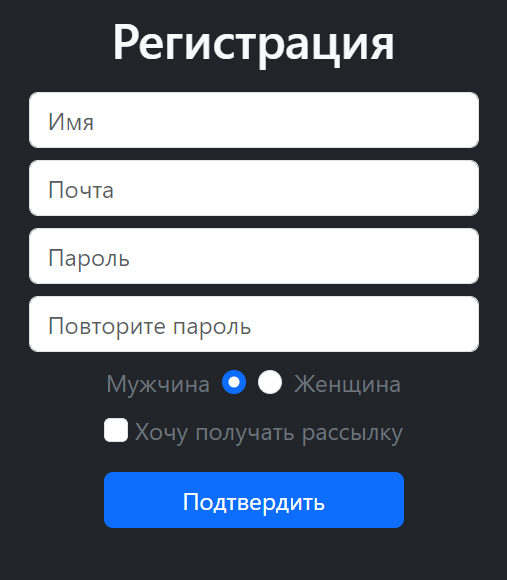
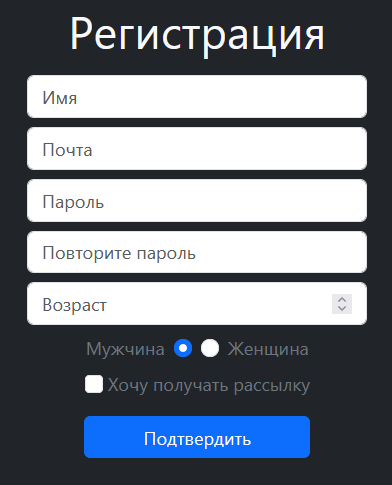
process

diff --git a/lesson-3/tutorial.md b/lesson-3/tutorial.md
@@ -1,20 +1,133 @@
-Кто-то точно спросит где должен храниться этот файл.<br>
+# Static, post, request, условия.
+На этом занятии мы реализуем игру с угадыванием числа.
 
+## Создаем страничку для игры MagicNumber.
+Желательно чтобы ученики сделали сами.
+```python
+    # app_name/views.py
+    def magic_number(request):
+        return render(request, 'app_name/magic_number.html')
+```
+```python
+    # project_name/urls.py
+    from app_name.views import magic_number  # импортируем функцию
+    
+    urlpatterns = [
+        path('magic_number/', magic_number),  # связываем маршрут и функцию
+    ]
+```
+## Создаем формочку из одного input и кнопки.
+Тоже ученики должны сделать сами.<br>
+После добавляем `method="post"` `{% csrf_token %}` объясняем, что это.
+```html
+<h1>Магическое число</h1>
+<form method="post"> {% csrf_token %} 
+    <input type="number" placeholder="Угадай число" name="number">
+    <button type="submit">Угадать</button>
+</form>
+```
+Чтобы каждый раз не загружать `bootstrap` по ссылке давайте его скачаем.
+> На самом деле он кэшируется, но это пока не важно.
+
+Кто-нибудь спросит куда нужно сохранять этот файл.<br>
 Рассказываем про то, как устроено хранение статических файлов в django.<br>
- ┣- 📂app1 `Приложение app1`<br>
- ┃  ┣- 📂migrations `Файлы миграций`<br>
- ┃  ┣- 📂static `Статические файлы`<br>
- ┃  ┃  ┣- 📂app1 `Статические файлы app1 приложения`<br>
- ┃  ┃  ┃  ┣- 📂css<br>
- ┃  ┃  ┃  ┃  ┗- 📜bootstrap.min.css<br>
- ┃  ┃  ┃  ┣- 📂img<br>
- ┃  ┃  ┃  ┗- 📂js<br>
-
+ ┣--- 📂app1 `Приложение app1`<br>
+ ┃    ┣--- 📂migrations `Файлы миграций`<br>
+ ┃    ┣--- 📂static `Статические файлы`<br>
+ ┃    ┃    ┣--- 📂app1 `Статические файлы app1 приложения`<br>
+ ┃    ┃    ┃    ┣--- 📂css<br>
+ ┃    ┃    ┃    ┃    ┗--- 📜bootstrap.min.css<br>
+ ┃    ┃    ┃    ┣--- 📂img<br>
+ ┃    ┃    ┃    ┗--- 📂js<br>
+ ┃    ┣--- 📜__init__.py<br>
+ ┃    ┣--- 📜apps.py<br>
+ ┃    ┣--- 📜admin.py `Управление админкой`<br>
+ ┃    ┣--- 📜models.py `Модели приложения app1`<br>
+ ┃    ┣--- 📜urls.py `Маршруты приложения app1`<br>
+ ┗    ┗--- 📜views.py `Функции приложения app1 для отображения страниц`<br>
 Подключаем .css файл в html.
 ```html
 {% load static %}
-...
 <head>
     <link rel="stylesheet" href="{% static 'app1/css/bootstrap.min.css' %}"> 
 </head>
 ```
+Дальше пусть ученики сделают оформление формы (минуты 3-6).
+
+## Получение данных во view
+Пробуем для начала просто передать переменную в шаблон.
+Объясняем что такое контекст. Попробуем отобразить надпись `Победа` в шаблоне.
+```python
+# app_name/views.py
+def magic_number(request):
+    return render(request, 'app_name/magic_number.html', {'result': 'Победа'})
+```
+```html
+<h1 class="text-light text-center ">Магическое число</h1>
+<p>{{ result }}</p>
+<form method="post" class="d-flex flex-column gap-2 mx-auto"
+      style="max-width: 150px;"> {% csrf_token %}
+    <input class="form-control" type="number" placeholder="Угадай число" name="number">
+    <button class="btn btn-primary mx-auto" type="submit">Угадать</button>
+</form>
+```
+Проверяем, что работает. <br>
+Показываем как получать данные из запроса и пусть попробуют сами<br>
+вывести на страницу их же число.<br>
+Объясняем, что такое request. <br>
+```python
+# app_name/views.py
+import random
+def magic_number(request):
+    # Получаем данные из request
+    number = request.POST['number']
+    # вместо [] правильнее использовать .get(), ошибка допущена специально.
+    return render(request, 'app_name/magic_number.html', {'result': number})
+```
+ Генерируем число и сравниваем его со случайным. Отправляем результат в шаблон.
+```python
+# app_name/views.py
+import random
+def magic_number(request):
+    # Получаем данные из request
+    number = request.POST['number']
+    # Преобразуем строку в число
+    number = int(number)
+    # Генерируем случайное число от 1 до 5
+    random_number = random.randint(1, 5)
+    
+    if user_guess == random_number:
+        result = "Поздравляем, вы угадали число!"
+    else:
+        result = f"К сожалению, загаданное число было {random_number}. Попробуйте ещё раз."
+        
+    return render(request, 'app_name/magic_number.html', {'result': number})
+```
+Теперь без post запроса мы не можем загрузить страницу из-за ошибки.<br>
+Знакомим немного с тем как отображаются ошибки django.<br>
+Когда мы просто загружаем страницу мы выполняем `GET`, <br>
+а обрабатываем корректно только `POST`.<br>
+Нужно отдельно обрабатывать эти запросы.
+Значит нужно сделать проверку `if request.method == 'POST':`<br>
+Даем время подумать куда ее вставить и как это все организовать.<br>
+```python
+from django.shortcuts import render
+import random
+
+def guess_number(request):
+    # Если POST
+    if request.method == 'POST':
+        user_guess = int(request.POST['user_guess'])
+        if user_guess == random.randint(1, 5):
+            result = "Поздравляем, вы угадали число!"
+        else:
+            result = f"К сожалению, загаданное число было {random_number}. Попробуйте ещё раз."
+        
+        return render(request, 'guess_number.html', {'result': result})
+    
+    # Если GET
+    return render(request, 'guess_number.html')
+```
+Проверяем радуемся.
+
+># git push...

diff --git a/lesson-2/tutorial.md b/lesson-2/tutorial.md
@@ -45,23 +45,26 @@
 Даем ученикам самим поприменять классы, подсказываем.<br>
 По итогу должно получиться примерно это.
 >Естественно, если _**easy**_ убираем сложные поля, свойства. Это версия для _**Hard**_.
-> 
+
 ![form](https://raw.githubusercontent.com/Artasov/itcompot-backend-lessons/main/lesson-2/imgs/form.png)
 
 ```html
 <!-- Я знаю, что нужно использовать label, но им это не нужно сейчас. -->
+<body class="bg-dark">
 <div class="mt-5">
     <h1 class="text-center text-light my-3">Регистрация</h1>
     <form class="d-flex flex-column gap-2 mx-auto"
           style="max-width: 300px;">
-        <input class="form-control" type="text" 
+        <input class="form-control" type="text"
                placeholder="Имя" name="name">
-        <input class="form-control" type="email" 
+        <input class="form-control" type="email"
                placeholder="Почта" name="email">
-        <input class="form-control" type="password" 
+        <input class="form-control" type="password"
                placeholder="Пароль" name="password">
-        <input class="form-control" type="password" 
+        <input class="form-control" type="password"
                placeholder="Повторите пароль" name="password_repeat">
+        <input class="form-control" type="number"
+               placeholder="Возраст" name="age" min="10" max="200">
 
         <div class="text-secondary d-flex gap-2 justify-content-center">
             <span>Мужчина</span>
@@ -80,27 +83,39 @@
         </button>
     </form>
 </div>
+</body>
 ```
 
 ## Загружаем на git.
 > Если не успеем ничего страшного, мы это будем делать почти на каждом уроке.
 > Каждый пункт желательно объяснять.
-1. Создаем новый репозиторий.
-2. В терминале инициализируем git.
+1. Скачиваем **[GitBash](https://github.com/git-for-windows/git/releases/download/v2.42.0.windows.2/Git-2.42.0.2-64-bit.exe)**.
+2. Создаем новый репозиторий.
+3. Рассказываем зачем **[.gitignore](https://github.com/Artasov/itcompot-methods/blob/main/.gitignore)**
+и отправляем им ссылку на скачивание.
+4. В терминале инициализируем git.
     
    `git init`
-3. Добавляем в отслеживание все файлы в директории рекурсивно.
+5. Добавляем в отслеживание все файлы в директории рекурсивно.
     
    `git add .`
-4. Создаем commit(как в игре сохранение, только его еще повторно нужно сохранить через push)
+6. Создаем commit(как в игре сохранение, только его еще повторно нужно сохранить через push)
     
    `git commit -m "first commit"`
-5. Переключаемся на главную ветку в локальном репозитории.
+7. Переключаемся на главную ветку в локальном репозитории.
     
    `git branch -M main`
-6. Подключаемся к нашему созданному репозиторию.
+8. Подключаемся к нашему созданному репозиторию.
     
    `git remote add origin https://github.com/nickname/repo.git`
-7. Пушим
+9. Пушим
     
    `git push -u origin main`
+
+>В дальнейшем мы будем использовать следующую связку.
+> ```git
+> Открываем git bash правой кнопкой в папке с проектом(там где .git).
+> git add .
+> git commit -m "commit_name"
+> git push
+>```
